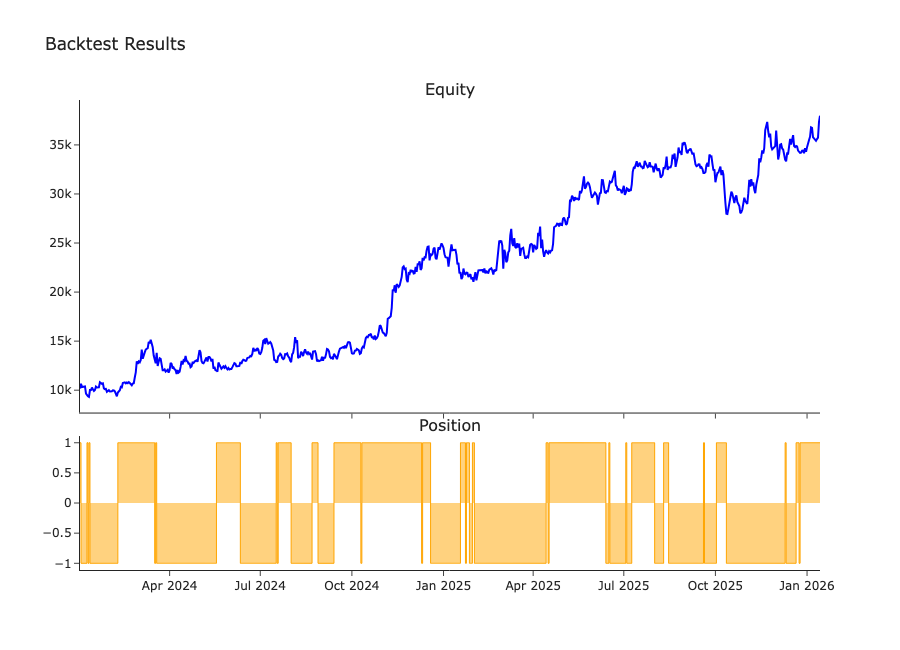
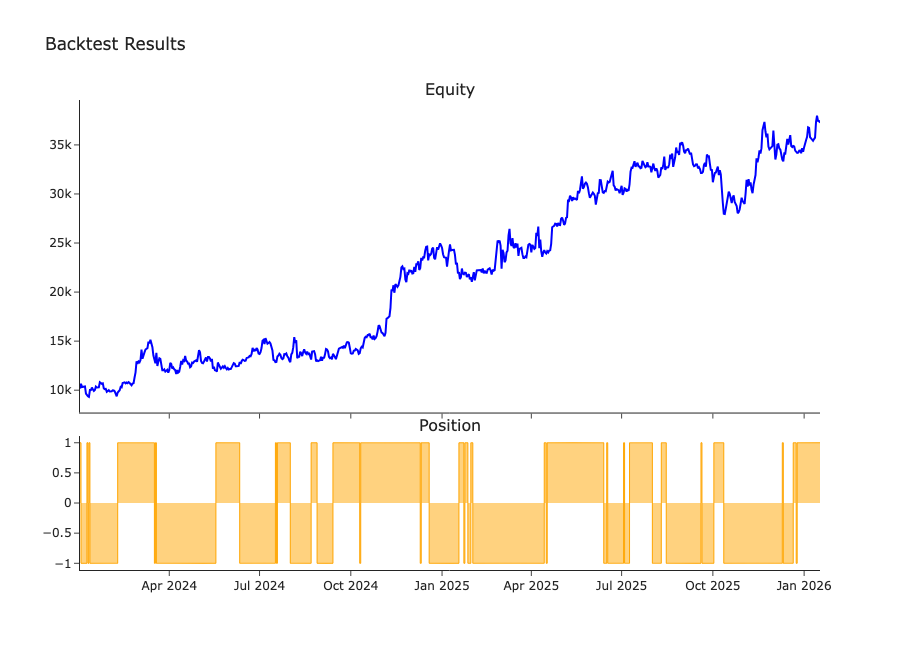
更新sth-mvrv报告

diff --git a/notebooks/sth_mvrv/report_zh.md b/notebooks/sth_mvrv/report_zh.md
@@ -1,22 +1,22 @@
-# 🚀 STH-MVRV 动量追踪：多头强势，但高位风险积聚
+# 🚀 STH-MVRV 动量追踪：多头强势，高位风险稍缓
 
 ## 📊 市场脉搏
-**数据日期：** 2026-01-14
-**当前状态：** 🟢 强势看涨（中期） | ⚠ 短期高热
+**数据日期：** 2026-01-17
+**当前状态：** 🟢 中期看涨 | ⚠ 短期过热
 
 ### 核心解读：
-- **盈亏平衡翻转：** STH-MVRV 当前录得 **0.99**。这意味着短期持有者已基本摆脱亏损，市场正处于从"割肉盘"向"获利盘"转换的关键心理关口。
-- **动量喷发：** 标准分数（Z-Score）飙升至 **2.8644**。自去年 12 月底"破冰"上穿零线以来，中期动量已彻底激活。多头目前占据绝对统治地位。
-- **风险雷达：** 警惕！Z-Score 突破 2.0 通常意味着市场进入"过热区"。历史经验显示，此处极易出现高位横盘或技术性回踩。
+- **盈亏平衡翻转：** STH-MVRV 当前为 **0.98**。这意味着短期持有者接近摆脱亏损，市场正处于从"割肉盘"向"获利盘"转换的关键心理关口。
+- **动量喷发：** STH-MVRV 标准分数为 **2.08**。中期动量依然强劲，但从近期高峰回落，显示动量有所冷却。
+- **风险雷达：** 标准分数仍超过 2.0，暗示过热风险，但已从 2.86 回落至 2.08，风险有所缓解。历史经验显示，此处仍易出现高位横盘或技术性回踩。
 
 ## 🧪 系统表现
 > "数据不撒谎，逻辑胜过直觉。"
 
-我们的 **STH-MVRV 中期动量系统**（>0 做多 / <0 做空）持续证明其捕获趋势的能力：
-- **盈利因子 (Profit Factor):** **5.12** —— 这是一个极其强悍的表现，意味着每承担 1 美元风险，可换取 5.12 美元收益。
+**STH-MVRV 中期动量系统**（>0 做多 / <0 做空）持续证明其捕获趋势的能力：
+- **盈利因子 (Profit Factor):** **5.12** —— 这是非常优秀的表现，意味着每承担 1 美元风险，可换取 5.12 美元收益。
 - **胜率:** 52%
 - **平均单笔收益:** +3.46%
 
 ---
 💡 **分析师笔记：**
-中期趋势依然坚挺，但 2.8644 的标准分数暗示"追高"风险正在积聚。建议关注 0 轴支撑，只要标准分数不跌破零线，任何回踩都是健康的洗盘。
+中期趋势依然坚挺，标准分数从高峰回落暗示追高风险减轻。建议关注 0 轴支撑，只要标准分数不跌破零线，短期回踩是健康的洗盘。

diff --git a/notebooks/sth_mvrv/report_en.md b/notebooks/sth_mvrv/report_en.md
@@ -1,13 +1,13 @@
-# 🚀 STH-MVRV Momentum Tracker: Bulls Reclaim Control, But Watch for "Heat" Recoil
+# 🚀 STH-MVRV Momentum Tracker: Bulls Strong, Overheat Risk Eases
 
 ## 📊 Market Pulse
-**Date:** 2026-01-14
+**Date:** 2026-01-17
 **Status:** 🟢 Bullish (Mid-term) | ⚠ Short-term Overheated
 
 ### Key Insights:
-- **Break-even Pivot:** STH-MVRV is currently at **0.99**. This indicates short-term holders are nearly out of the "red," marking a critical psychological shift from capitulation to profit-taking.
-- **Momentum Surge:** The Z-Score has surged to **2.8644**. Since crossing the zero-line in late December, mid-term momentum has been fully activated. Bulls are firmly in the driver's seat.
-- **Risk Radar:** Caution! A Z-Score above 2.0 typically signals an "overheated" zone. Historical data suggests a high probability of consolidation or a technical pullback at these levels.
+- **Break-even Pivot:** STH-MVRV is currently at **0.98**. This indicates short-term holders are close to out of the "red," marking a critical psychological shift from capitulation to profit-taking.
+- **Momentum Surge:** The Z-Score stands at **2.0820**. Mid-term momentum remains strong, but has cooled from recent highs.
+- **Risk Radar:** Caution! A Z-Score above 2.0 still signals an "overheated" zone, but down from 2.86, the risk has eased. Historical data suggests a high probability of consolidation or a technical pullback at these levels.
 
 ## 🧪 Backtest Edge
 > "Data doesn't lie; logic beats intuition."
@@ -19,4 +19,4 @@ Our **STH-MVRV Mid-term Momentum System** (>0 Long / <0 Short) continues to prov
 
 ---
 💡 **Analyst's Note:** 
-The mid-term trend remains robust, but a Z-Score of 2.8644 warns that "FOMO" risk is building. Watch the zero-line support; as long as the Z-Score stays positive, any dip is a healthy shakeout.
+The mid-term trend remains robust, but the Z-Score cooling from the peak suggests reduced FOMO risk. Watch the zero-line support; as long as the Z-Score stays positive, any dip is a healthy shakeout.

diff --git a/notebooks/sth_mvrv/outputs/summary.md b/notebooks/sth_mvrv/outputs/summary.md
@@ -1,14 +1,11 @@
-# STH-MVRV 分析报告 - 2026-01-14
+# STH-MVRV 分析报告 - 2026-01-17
 
 ## 更新日期
-2026-01-14
+2026-01-17
 
 ## 指标数据（最后30行）
 | datetime | sth_mvrv | close | sth_mvrv_zscore |
 |----------|----------|-------|-----------------|
-| 2025-12-16 | 0.8550 | 87843.98 | -0.7269 |
-| 2025-12-17 | 0.8580 | 86143.76 | -0.6361 |
-| 2025-12-18 | 0.8500 | 85462.51 | -0.7962 |
 | 2025-12-19 | 0.8800 | 88103.38 | -0.0330 |
 | 2025-12-20 | 0.8800 | 88344.00 | 0.0074 |
 | 2025-12-21 | 0.8810 | 88621.75 | 0.0834 |
@@ -36,6 +33,9 @@
 | 2026-01-12 | 0.9300 | 91192.99 | 1.4418 |
 | 2026-01-13 | 0.9700 | 95321.78 | 2.5378 |
 | 2026-01-14 | 0.9900 | 96929.33 | 2.8644 |
+| 2026-01-15 | 0.9800 | 95551.19 | 2.4062 |
+| 2026-01-16 | 0.9800 | 95525.12 | 2.2297 |
+| 2026-01-17 | 0.9800 | 95099.92 | 2.0820 |
 
 ## 回溯检验的业绩指标
 - Total Closed Trades: 50
@@ -43,9 +43,9 @@
 - Profit Factor: 5.12
 - Avg PnL (Closed): 3.46%
 - Open Positions: 1
-- Total Return: 273.33%
-- CAGR: 91.09%
-- Sharpe Ratio: 1.33
+- Total Return: 266.28%
+- CAGR: 88.82%
+- Sharpe Ratio: 1.31
 - Max Drawdown: -23.03%
 
 ## 回溯检验的历史交易（最后10笔）
@@ -60,7 +60,7 @@
 | Closed | 2025-12-11 | 92011.30 | 2025-12-21 | 88344.70 | -1 | 3.98% |
 | Closed | 2025-12-21 | 88344.70 | 2025-12-24 | 87404.32 | 1 | -1.06% |
 | Closed | 2025-12-24 | 87404.32 | 2025-12-25 | 87608.32 | -1 | -0.23% |
-| Open | 2025-12-25 | 87608.32 | 2026-01-14 | 96929.33 | 1 | 10.64% |
+| Open | 2025-12-25 | 87608.32 | 2026-01-17 | 95099.92 | 1 | 8.55% |
 
 ## 图表
 ![Indicator Chart](indicator_chart.png)
